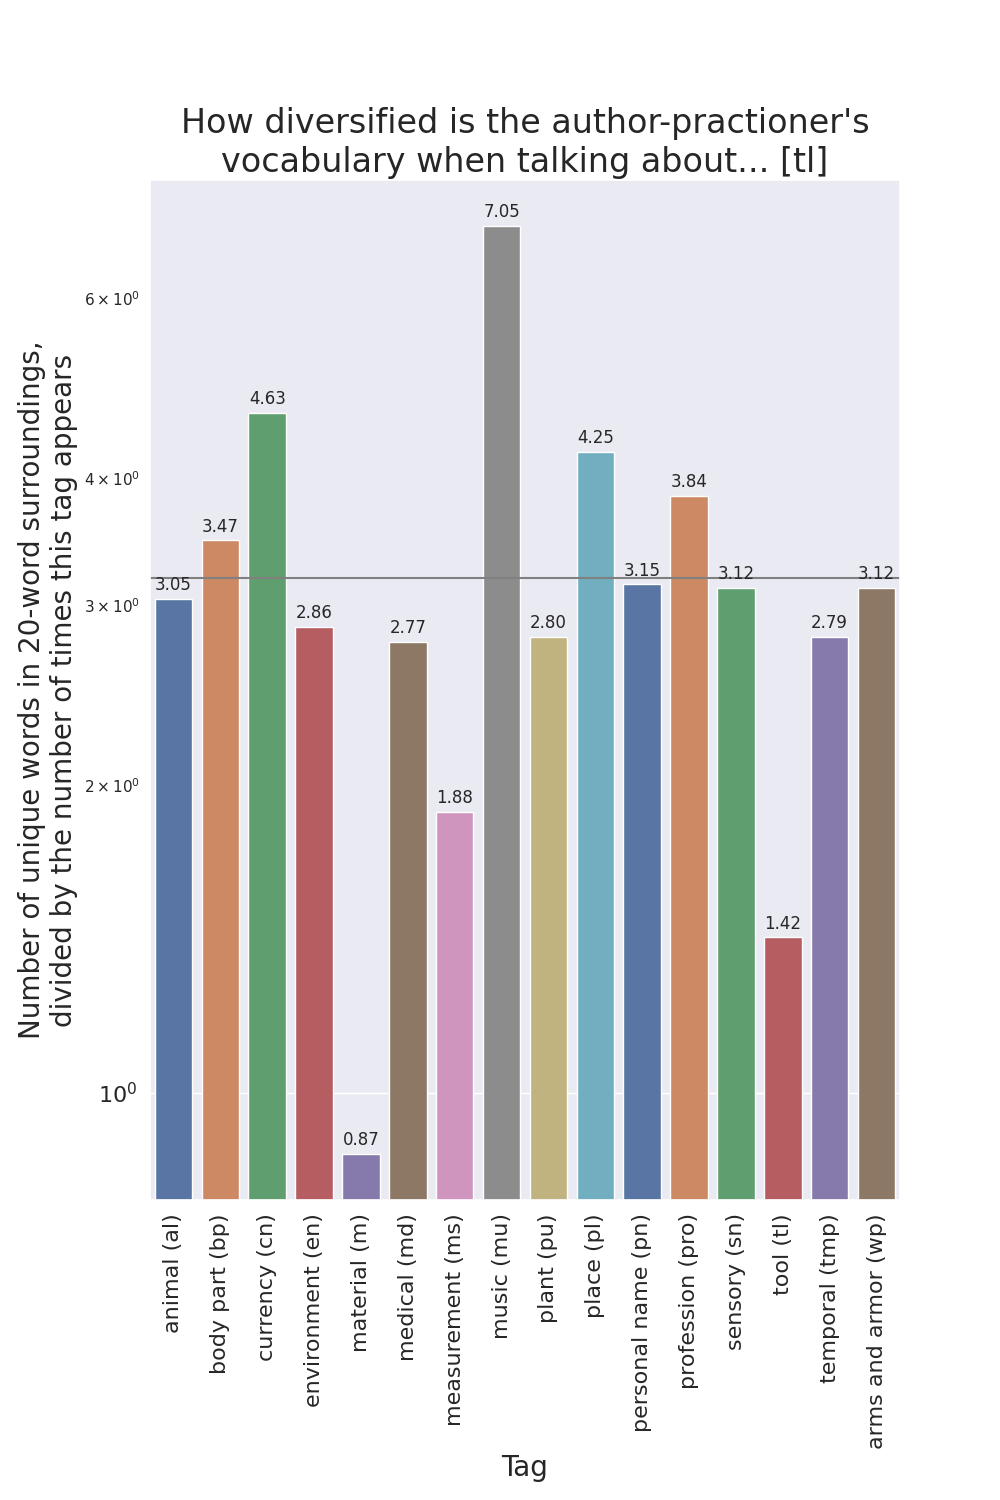
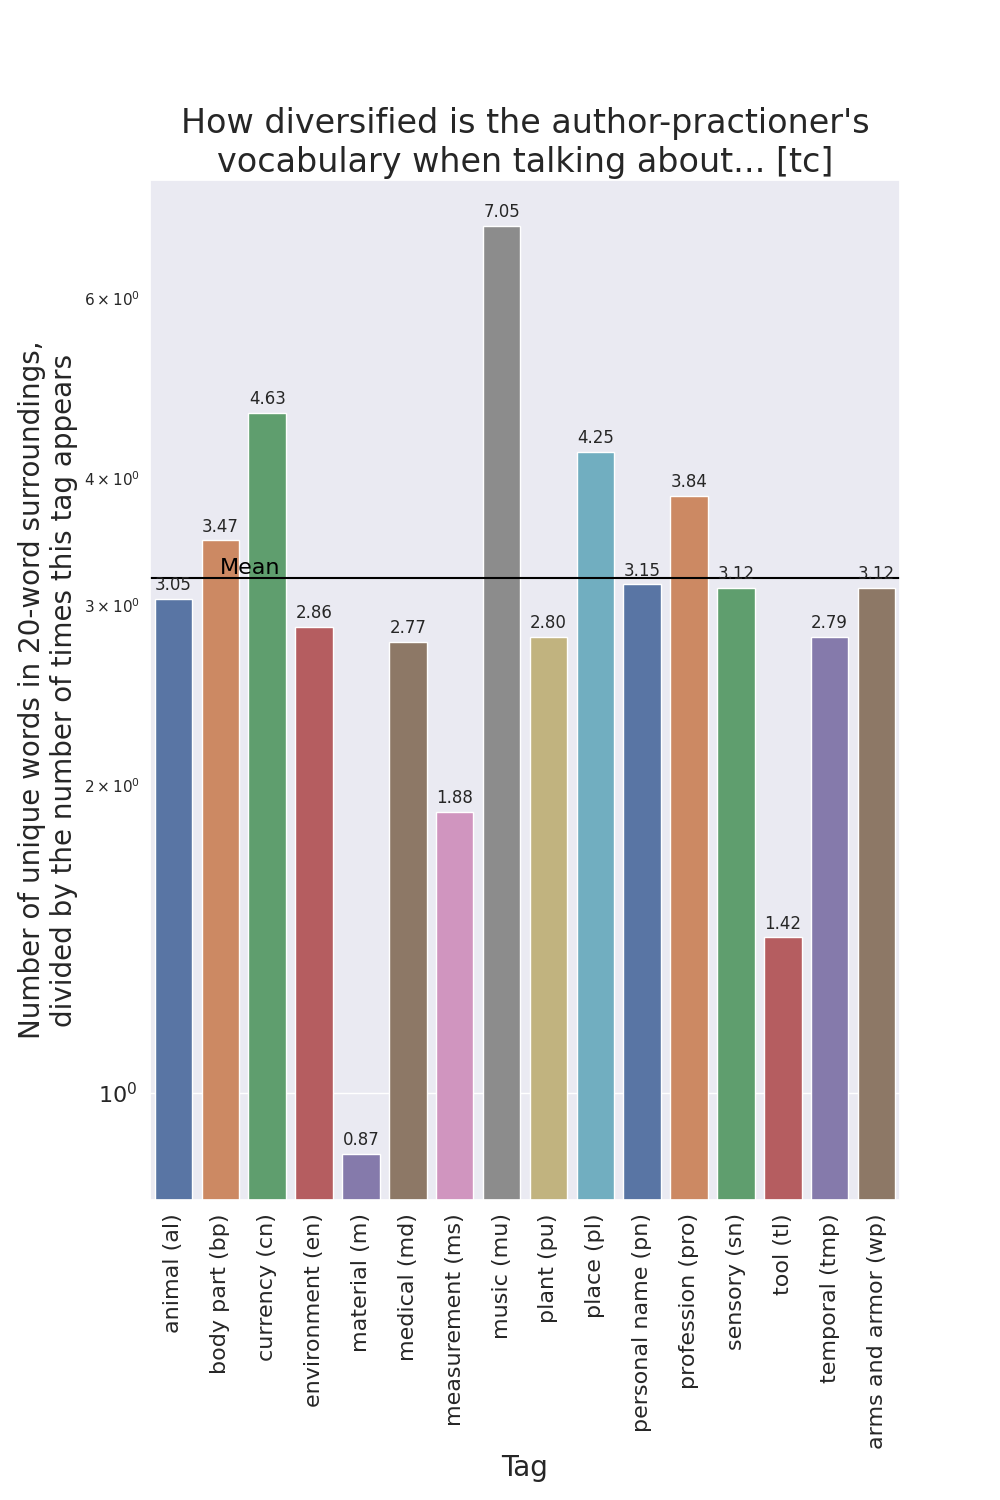
tweaked barplot mean + added means to heatmaps

Changed region(s): [[0.217, 0.092, 0.744, 0.1227], [0.775, 0.092, 0.837, 0.1227], [0.217, 0.368, 0.279, 0.3987]]

diff --git a/context_viz.py b/context_viz.py
@@ -106,6 +106,8 @@ for tag in tags:
 # how similar are contexts from different tags
 def create_symmetrical_heatmap():
     matrix = []
+    I = np.ones(len(tags)) - np.eye(len(tags))
+    line_count = 0
     for i in all_context_without_duplicates:
         si = set(i)
         line = []
@@ -113,10 +115,16 @@ def create_symmetrical_heatmap():
             sj = set(j)
             # how much of si and sj is in common
             line.append(len(si.intersection(sj))/len(si.union(sj))*100)
+        line.append(np.average(line, weights = I[line_count]))
         matrix.append(line)
+        line_count += 1
+    tag_range = range(len(tags))
+    averages = [np.average([matrix[i][j] for i in tag_range], weights = I[j]) for j in tag_range]
+    matrix.append(averages)
 
-    df = pandas.DataFrame(matrix, index = tag_names, columns = tag_names)
-    no_diag_mask = np.identity(len(tags))
+    legend = tag_names + ["MEAN"]
+    df = pandas.DataFrame(matrix, index = legend, columns = legend)
+    no_diag_mask = np.identity(len(legend))
     plt.subplots(figsize = (15, 15))
     plt.gcf().subplots_adjust(bottom = 0.2)
     plt.gcf().subplots_adjust(left = 0.2)
@@ -129,8 +137,8 @@ def create_symmetrical_heatmap():
                       fontsize = 22)
     heatmap.set_ylabel("Tags", fontsize = 20)
     heatmap.set_xlabel("Tags", fontsize = 20)
-    heatmap.set_xticklabels(tag_names, size = 16)
-    heatmap.set_yticklabels(tag_names, size = 16)
+    heatmap.set_xticklabels(legend, size = 16)
+    heatmap.set_yticklabels(legend, size = 16)
     fig = heatmap.get_figure()
     fig.savefig(viz_path + "symmetrical_heatmap.png")
 
@@ -138,6 +146,8 @@ def create_symmetrical_heatmap():
 # how similar are contexts from different tags
 def create_asymmetrical_heatmap():
     matrix = []
+    I = np.ones(len(tags)) - np.eye(len(tags))
+    line_count = 0
     for i in all_context_without_duplicates:
         si = set(i)
         line = []
@@ -145,10 +155,16 @@ def create_asymmetrical_heatmap():
             sj = set(j)
             # how much of si is in sj
             line.append(len(si.intersection(sj))/len(sj)*100)
+        line.append(np.average(line, weights = I[line_count]))
         matrix.append(line)
+        line_count += 1
+    tag_range = range(len(tags))
+    averages = [np.average([matrix[i][j] for i in tag_range], weights = I[j]) for j in tag_range]
+    matrix.append(averages)
 
-    df = pandas.DataFrame(matrix, index = tag_names, columns = tag_names)
-    no_diag_mask = np.identity(len(tags))
+    legend = tag_names + ["MEAN"]
+    df = pandas.DataFrame(matrix, index = legend, columns = legend)
+    no_diag_mask = np.identity(len(legend))
     plt.subplots(figsize = (15, 15))
     plt.gcf().subplots_adjust(bottom = 0.2)
     plt.gcf().subplots_adjust(left = 0.2)
@@ -161,8 +177,8 @@ def create_asymmetrical_heatmap():
                       fontsize = 22)
     heatmap.set_ylabel("How much of this tag's context vocabulary...", fontsize = 20)
     heatmap.set_xlabel("...is included in this tag's context vocabulary?", fontsize = 20)
-    heatmap.set_xticklabels(tag_names, size = 16)
-    heatmap.set_yticklabels(tag_names, size = 16)
+    heatmap.set_xticklabels(legend, size = 16)
+    heatmap.set_yticklabels(legend, size = 16)
     fig = heatmap.get_figure()
     fig.savefig(viz_path + "asymmetrical_heatmap.png")
 
@@ -181,10 +197,10 @@ def create_barplot(normalized):
         ylabel_appendix = ""
         filename_appendix = ""
     barplt = sns.barplot(x = tag_names, y = data,
-                       palette = "deep")
+                         palette = "deep")
     mean = np.mean(data)
-    barplt.axhline(mean, ls='-', color = "grey")
-    barplt.text(0, mean + 80, "Mean", fontsize = 16, color = "grey")
+    barplt.axhline(mean, ls='-', color = "black")
+    barplt.text(1, mean*1.01, "Mean", fontsize = 16, color = "black")
     for p in barplt.patches:
         if (normalized):
             nb = format(p.get_height(), '.2f')
@@ -192,10 +208,10 @@ def create_barplot(normalized):
             nb = int(p.get_height())
         barplt.annotate(nb, (p.get_x() + p.get_width() / 2., p.get_height()), ha = 'center', va = 'center', xytext = (0, 10), textcoords = 'offset points')
     barplt.set_ylabel("Number of unique words in 20-word surroundings" + ylabel_appendix,
-                    fontsize = 20)
+                      fontsize = 20)
     barplt.set_xlabel("Tag", fontsize = 20)
     barplt.set_title("How diversified is the author-practioner's\nvocabulary when talking about... [" + manuscript_version + "]",
-                   fontsize = 24)
+                     fontsize = 24)
     barplt.set_xticklabels(barplt.get_xticklabels(), rotation = 90, fontsize = 16)
     barplt.set_yticklabels(tag_names, size = 16)
     #hist.yaxis.set_major_locator(plt.FixedLocator(5))
